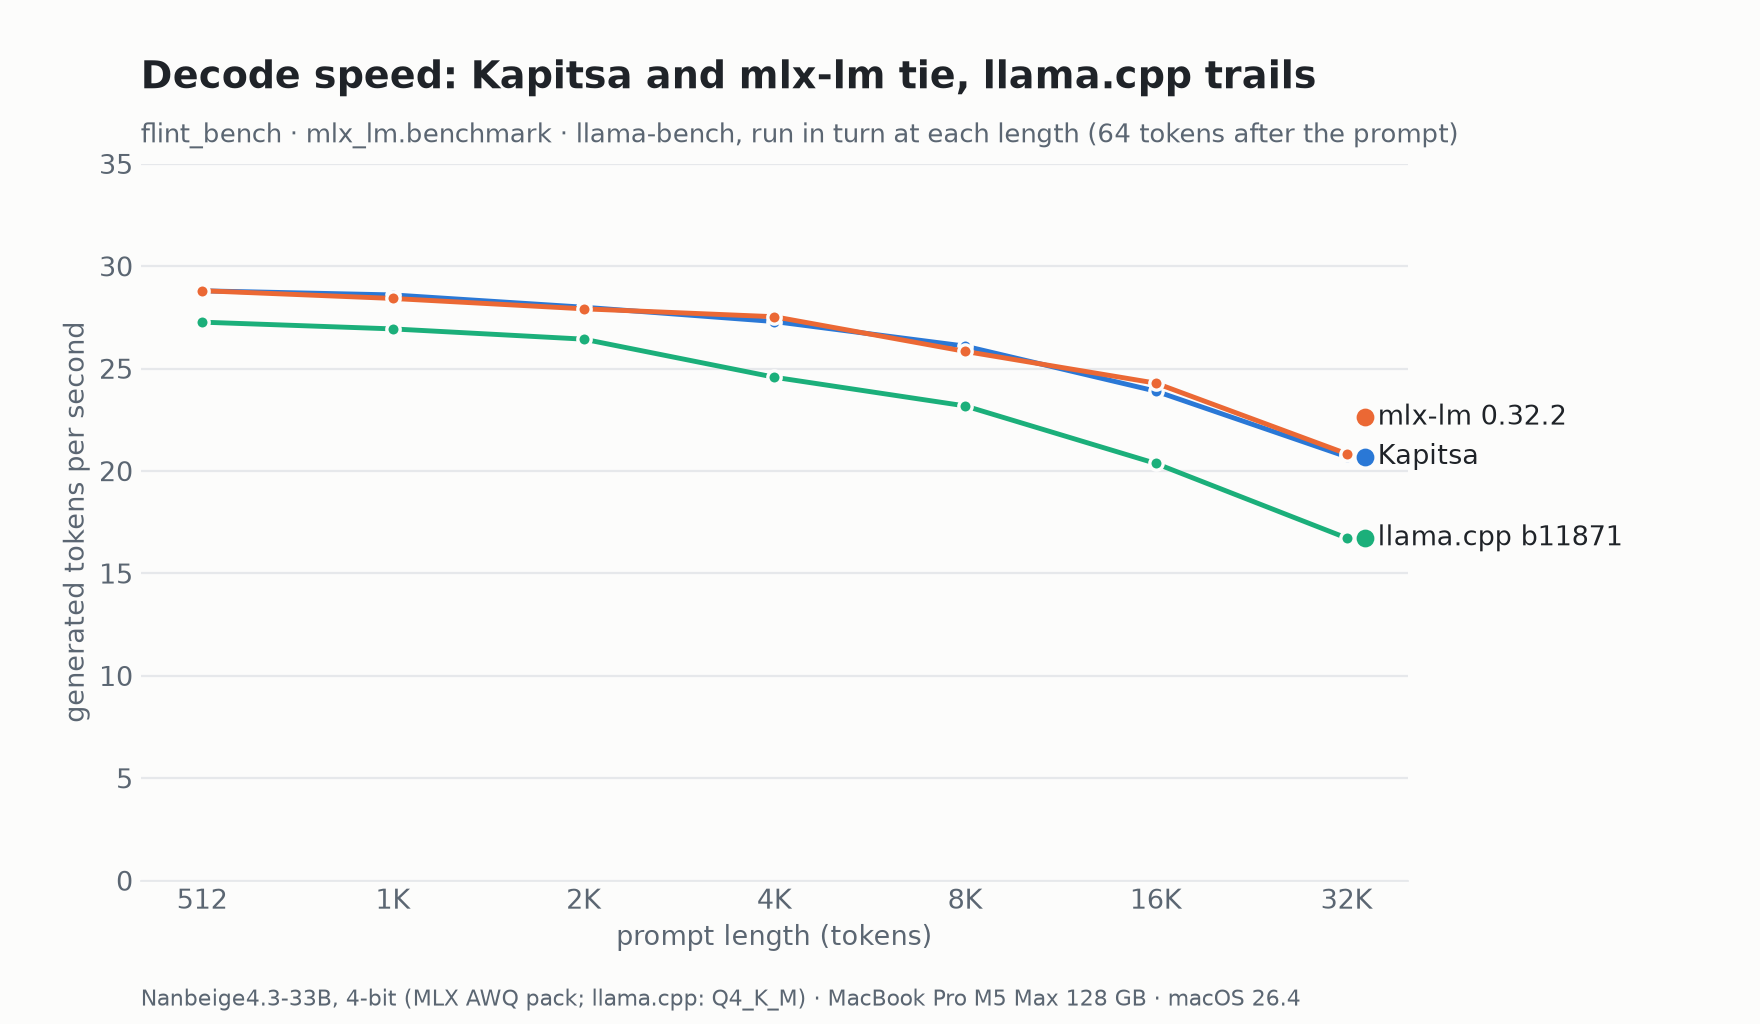
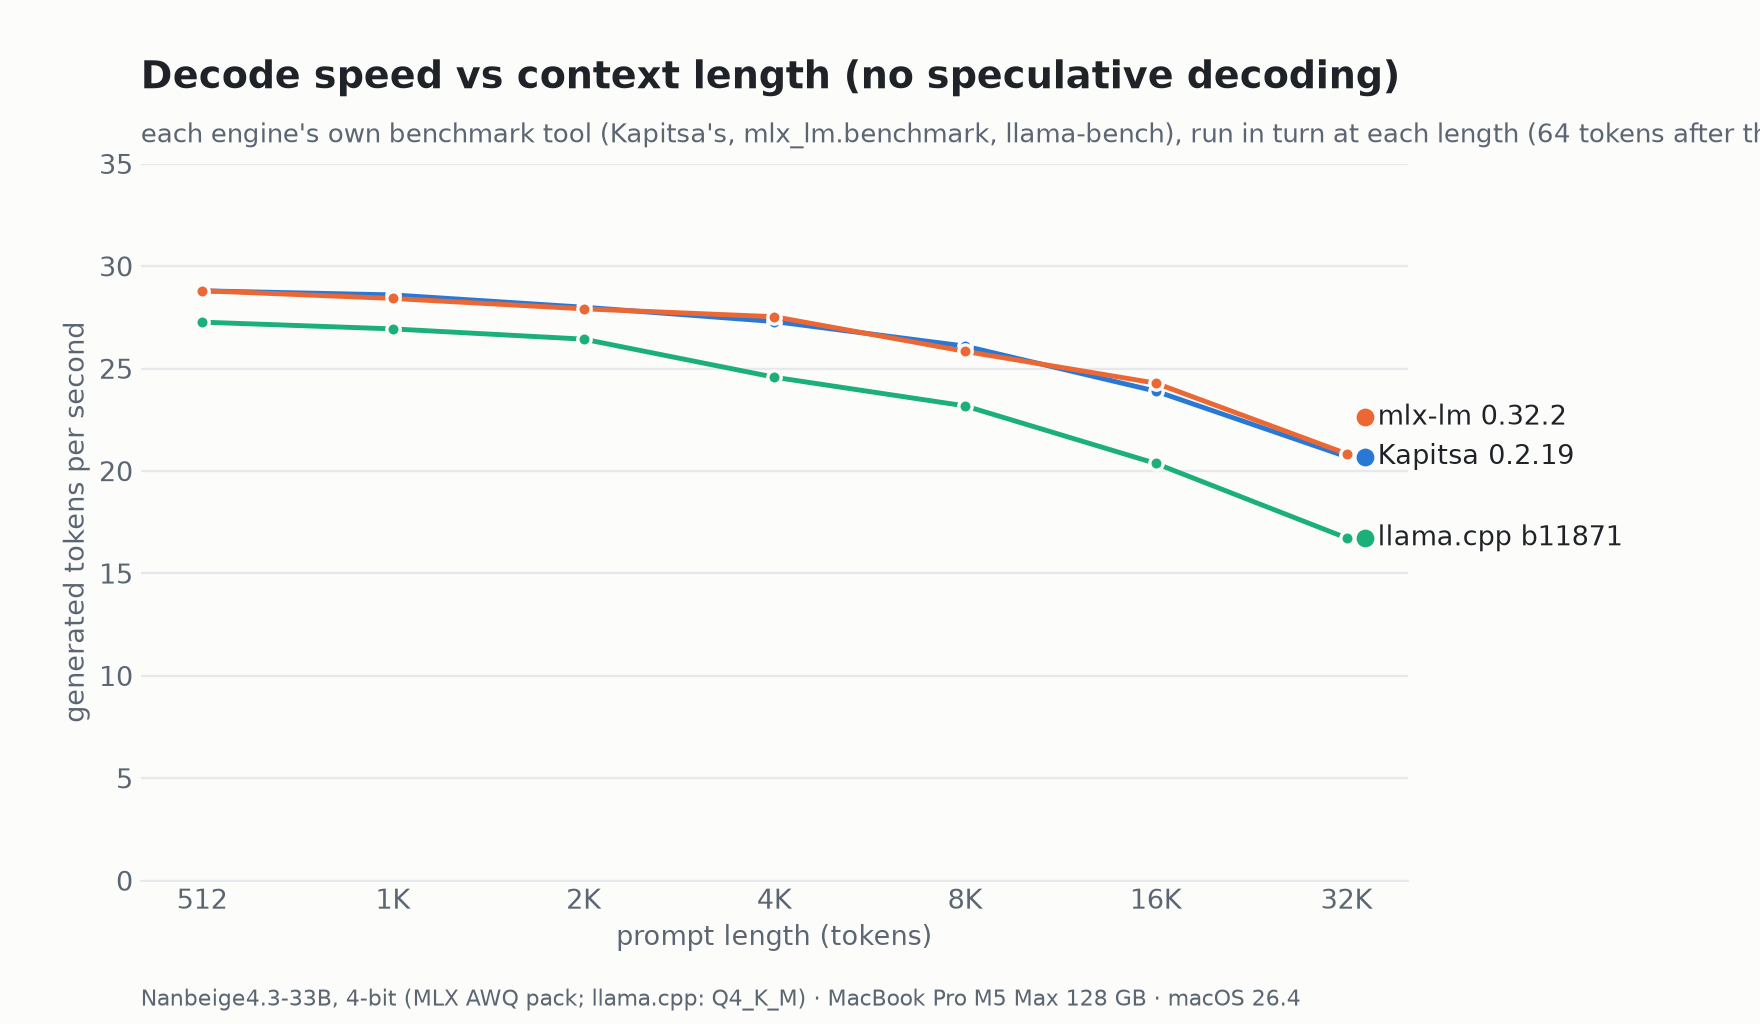
bench: Nanbeige4.3-33B's 2026-10-26 results gain the drafter's write / edit / explain runs (kflash-write/), the peak memory chart, and the chart scripts (#694)

Changed region(s): [[0.0625, 0.125, 1.0, 0.1562], [0.25, 0.0625, 0.8125, 0.0938], [0.8438, 0.4375, 0.9062, 0.4688]]

diff --git a/bench/results/2026-10-26-m5-max-nanbeige/charts.py b/bench/results/2026-10-26-m5-max-nanbeige/charts.py
@@ -1,0 +1,136 @@
+# Reddit charts: Nanbeige4.3-33B prefill and decode speed from 512 to 32K tokens (flint_bench / mlx_lm.benchmark /
+# llama-bench sweep), plus time to first token cold and on a follow-up turn (the harness at 7 sizes) when given.
+# usage: uv run --with matplotlib python charts.py SWEEP_DIR OUT_DIR [HARNESS_RESULTS_DIR]
+import glob, json, os, re, sys
+import matplotlib
+matplotlib.use("Agg")
+import matplotlib.pyplot as plt
+from matplotlib import font_manager
+
+sweep, out = sys.argv[1], sys.argv[2]
+harness = sys.argv[3] if len(sys.argv) > 3 else None
+os.makedirs(out, exist_ok=True)
+
+# the reference palette's first three categorical slots (validated: CVD 9.2, normal 27.6; aqua under 3:1 on the
+# surface, so every line is direct-labeled and the post carries the table)
+ENG = [("Kapitsa 0.2.19", "#2a78d6"), ("mlx-lm 0.32.2", "#eb6834"), ("llama.cpp b11871", "#1baf7a")]
+SURFACE, INK, INK2, GRID = "#fcfcfb", "#1f2328", "#5b6672", "#e6e8eb"
+
+def rd(p):
+    try:
+        return open(p).read()
+    except OSError:
+        return ""
+
+lens = sorted({int(re.search(r"-(\d+)\.txt$", f).group(1)) for f in glob.glob(os.path.join(sweep, "kapitsa-*.txt"))})
+def kap(n):
+    m = re.search(r"\((\d+) tok/s, GPU.*?\(([\d.]+) tok/s", rd(f"{sweep}/kapitsa-{n}.txt"))
+    return (float(m.group(1)), float(m.group(2))) if m else (None, None)
+def mlx(n):
+    m = re.search(r"Averages: prompt_tps=([\d.]+), generation_tps=([\d.]+)", rd(f"{sweep}/mlxlm-{n}.txt"))
+    return (float(m.group(1)), float(m.group(2))) if m else (None, None)
+def llc(n):
+    a = re.search(r"pp\d+ \|\s+([\d.]+)", rd(f"{sweep}/llamacpp-pp-{n}.txt"))
+    b = re.search(r"tg\d+ @ d\d+ \|\s+([\d.]+)", rd(f"{sweep}/llamacpp-tg-{n}.txt"))
+    return (float(a.group(1)) if a else None, float(b.group(1)) if b else None)
+data = {e: [f(n) for n in lens] for (e, _), f in zip(ENG, (kap, mlx, llc))}
+
+def lab(n):
+    if n % 1024 == 0:
+        return str(n) if n < 1024 else f"{n // 1024}K"
+    return str(n) if n < 1000 else f"{n / 1000:.1f}K".replace(".0K", "K")
+
+def style(ax, title, sub, ylabel):
+    ax.set_facecolor(SURFACE)
+    for s in ("top", "right", "left"):
+        ax.spines[s].set_visible(False)
+    ax.spines["bottom"].set_color(GRID)
+    ax.tick_params(colors=INK2, labelsize=12, length=0)
+    ax.grid(axis="y", color=GRID, linewidth=1)
+    ax.set_axisbelow(True)
+    ax.set_ylabel(ylabel, color=INK2, fontsize=12)
+    ax.set_xlabel("prompt length (tokens)", color=INK2, fontsize=12)
+    ax.set_title(title, loc="left", color=INK, fontsize=17, fontweight="bold", pad=34)
+    ax.text(0, 1.03, sub, transform=ax.transAxes, color=INK2, fontsize=11.5)
+
+def line_chart(xs, series, title, sub, ylabel, fname, fmt, ymin0=True):
+    fig, ax = plt.subplots(figsize=(11, 6.4), dpi=160)
+    fig.patch.set_facecolor(SURFACE)
+    style(ax, title, sub, ylabel)
+    ends = []
+    for name, color, ys in series:
+        pts = [(x, y) for x, y in zip(xs, ys) if y is not None]
+        if not pts:
+            continue
+        ax.plot([p[0] for p in pts], [p[1] for p in pts], color=color, linewidth=2.2, marker="o", markersize=6,
+                markeredgecolor=SURFACE, markeredgewidth=1.5, zorder=3, solid_capstyle="round")
+        ends.append([pts[-1][1], name, color, pts[-1][0]])
+    ax.set_xscale("log", base=2)
+    ax.set_xticks(xs)
+    ax.set_xticklabels([lab(x) for x in xs])
+    ax.minorticks_off()
+    if ymin0:
+        top = max(y for _, _, ys in series for y in ys if y is not None)
+        import math
+        step = 10 ** math.floor(math.log10(top)) / 2
+        ax.set_ylim(0, math.ceil(top * 1.08 / step) * step)
+    lo, hi = ax.get_ylim()
+    # direct labels at the right end, nudged apart so they never collide; text in ink, a colored dot beside it
+    ends.sort(key=lambda e: e[0])
+    gap = (hi - lo) * 0.055
+    for i in range(1, len(ends)):
+        if ends[i][0] - ends[i - 1][0] < gap:
+            ends[i][0] = ends[i - 1][0] + gap
+    for y, name, color, x in ends:
+        ax.annotate(name, xy=(x, y), xytext=(14, 0), textcoords="offset points", va="center", fontsize=12, color=INK,
+                    annotation_clip=False)
+        ax.plot([x * 1.07], [y], marker="o", markersize=7, color=color, clip_on=False, zorder=4)
+    ax.set_xlim(xs[0] / 1.25, xs[-1] * 1.25)
+    fig.subplots_adjust(left=0.08, right=0.80, top=0.84, bottom=0.14)
+    fig.text(0.08, 0.018, "Nanbeige4.3-33B, 4-bit (MLX AWQ pack; llama.cpp: Q4_K_M) · MacBook Pro M5 Max 128 GB · macOS 26.4",
+             color=INK2, fontsize=10)
+    fig.savefig(os.path.join(out, fname), facecolor=SURFACE)
+    plt.close(fig)
+    print("wrote", fname)
+
+sub = "each engine's own benchmark tool (Kapitsa's, mlx_lm.benchmark, llama-bench), run in turn at each length"
+line_chart(lens, [(e, c, [v[0] for v in data[e]]) for e, c in ENG],
+           "Prefill speed vs context length", sub, "prompt tokens per second",
+           "prefill.png", "{:.0f}")
+line_chart(lens, [(e, c, [v[1] for v in data[e]]) for e, c in ENG],
+           "Decode speed vs context length (no speculative decoding)", sub + " (64 tokens after the prompt)",
+           "generated tokens per second", "decode.png", "{:.1f}")
+
+if harness:
+    recs = {}
+    for f in glob.glob(os.path.join(harness, "*.json")):
+        try:
+            j = json.load(open(f))
+        except Exception:
+            continue
+        if not isinstance(j, dict) or "prefill" not in j:
+            continue
+        eng = {"kapitsa": "Kapitsa 0.2.19", "mlx-lm": "mlx-lm 0.32.2", "llama.cpp": "llama.cpp b11871"}.get(j.get("engine"), j.get("engine"))
+        recs[eng] = j
+    sizes = sorted({r["target"] for j in recs.values() for r in j["prefill"]})
+    def ttft(j, n):
+        p = next((r for r in j["prefill"] if r["target"] == n), {})
+        return p.get("ttft_s"), p.get("turn2_ttft_s"), p.get("prompt_tokens")
+    toks = [next((ttft(recs[e], n)[2] for e in recs if ttft(recs[e], n)[2]), n) for n in sizes]
+    if sizes:
+        line_chart(toks, [(e, c, [ttft(recs[e], n)[0] if e in recs else None for n in sizes]) for e, c in ENG],
+                   "Time to first token, cold prompt", "each engine's own server, real chat prompts, thinking off",
+                   "seconds", "ttft_cold.png", "{:.2f}")
+        line_chart(toks, [(e, c, [ttft(recs[e], n)[1] if e in recs else None for n in sizes]) for e, c in ENG],
+                   "Time to first token on a follow-up turn", "the conversation so far cached, a new user turn added",
+                   "seconds", "ttft_followup.png", "{:.2f}")
+        # the server process's peak physical footprint by the end of each prompt size (the harness runs them in
+        # ascending order after decode, so each point is the high-water mark up to that context)
+        def mem(j, n):
+            v = (j.get("memory") or {}).get(f"prefill_{n}") or {}
+            return v["phys_footprint_peak_mb"] / 1024 if "phys_footprint_peak_mb" in v else None
+        line_chart(toks, [(e, c, [mem(recs[e], n) if e in recs else None for n in sizes]) for e, c in ENG],
+                   "Peak memory as the context grows", "the server process's peak physical footprint, weights included",
+                   "GB", "memory.png", "{:.1f}")
+    json.dump({e: {str(n): ttft(recs[e], n) for n in sizes} for e in recs}, open(os.path.join(out, "harness.json"), "w"))
+json.dump({e: dict(zip(map(str, lens), data[e])) for e in data}, open(os.path.join(out, "sweep.json"), "w"))

diff --git a/bench/results/2026-10-26-m5-max-nanbeige/kflash-write/chart_write.py b/bench/results/2026-10-26-m5-max-nanbeige/kflash-write/chart_write.py
@@ -1,0 +1,46 @@
+# Decode speed writing code: Kapitsa with KFlash, mlx-lm and llama.cpp (no speculation).
+# usage: uv run --with matplotlib python chart_write.py results.jsonl OUT.png
+import json, sys
+from statistics import mean
+import matplotlib
+matplotlib.use("Agg")
+import matplotlib.pyplot as plt
+
+rows = [json.loads(l) for l in open(sys.argv[1]) if l.startswith("{") and json.loads(l)["task"] == "write code"]
+ENG = [("kapitsa-auto", "Kapitsa 0.2.19 (KFlash)", "#2a78d6"),
+       ("mlx-lm", "mlx-lm 0.32.2 (no spec)", "#eb6834"), ("llama.cpp", "llama.cpp b11871 (no spec)", "#1baf7a")]
+TS = [(0.0, "greedy (T 0)"), (0.6, "sampled (T 0.6)")]
+SURFACE, INK, INK2, GRID = "#fcfcfb", "#1f2328", "#5b6672", "#e6e8eb"
+
+def val(e, T):
+    return mean(r["tps"] for r in rows if r["engine"] == e and r["T"] == T)
+
+fig, ax = plt.subplots(figsize=(11, 6.4), dpi=160)
+fig.patch.set_facecolor(SURFACE)
+ax.set_facecolor(SURFACE)
+for s in ("top", "right", "left"):
+    ax.spines[s].set_visible(False)
+ax.spines["bottom"].set_color(GRID)
+ax.tick_params(colors=INK2, labelsize=12, length=0)
+ax.grid(axis="y", color=GRID, linewidth=1)
+ax.set_axisbelow(True)
+W, top = 0.25, max(r["tps"] for r in rows)
+for i, (e, name, color) in enumerate(ENG):
+    for j, (T, _) in enumerate(TS):
+        v, x = val(e, T), j + (i - 1) * W
+        ax.bar(x, v, W * 0.9, color=color, edgecolor=SURFACE, linewidth=1, zorder=3, label=name if j == 0 else None)
+        ax.text(x, v + top * 0.012, f"{v:.1f}", ha="center", va="bottom", fontsize=11, color=INK)
+ax.set_xticks(range(len(TS)))
+ax.set_xticklabels([t for _, t in TS])
+ax.set_ylim(0, top * 1.12)
+ax.set_ylabel("generated tokens per second", color=INK2, fontsize=12)
+fig.suptitle("Writing code with speculative decoding", x=0.08, ha="left", color=INK, fontsize=17,
+             fontweight="bold", y=0.97)
+fig.text(0.08, 0.885, "a 512-token Python function with unit tests, each engine's own server, mean of two runs",
+         color=INK2, fontsize=11.5)
+fig.legend(*ax.get_legend_handles_labels(), loc="lower center", ncol=3, frameon=False, fontsize=11, labelcolor=INK,
+           bbox_to_anchor=(0.5, 0.05))
+fig.text(0.08, 0.015, "Nanbeige4.3-33B, 4-bit (MLX AWQ pack; llama.cpp: Q4_K_M) · MacBook Pro M5 Max 128 GB · macOS 26.4",
+         color=INK2, fontsize=10)
+fig.subplots_adjust(left=0.08, right=0.98, top=0.83, bottom=0.24)
+fig.savefig(sys.argv[2], facecolor=SURFACE)

diff --git a/bench/results/2026-10-26-m5-max-nanbeige/kflash-write/stream.py b/bench/results/2026-10-26-m5-max-nanbeige/kflash-write/stream.py
@@ -1,0 +1,37 @@
+# Decode speed per task on any OpenAI-compatible server, streamed: tokens after the first one / time after the first one.
+# usage: stream.py BASE_URL MODEL REPO LABEL
+import json, sys, time, urllib.request
+base, model, repo, label = sys.argv[1:5]
+src = open(f"{repo}/tools/readme_images/reddit_grid.py").read().splitlines()[:120]
+code = "\n".join(src)
+work = {
+    "write code": "Write a Python function that merges two sorted lists into one sorted list, with a docstring and three "
+                  "unit tests using unittest.",
+    "edit code": "Add a short docstring to every function in this file and return the whole file, unchanged otherwise, "
+                 "in one code block.\n\n```python\n" + code + "\n```",
+    "explain code": "Explain what this code does, function by function.\n\n```python\n" + code + "\n```",
+}
+def run(p, temp):
+    body = {"model": model, "messages": [{"role": "user", "content": p}], "max_tokens": 512, "temperature": temp,
+            "top_p": 0.95, "top_k": 20, "stream": True, "stream_options": {"include_usage": True},
+            "chat_template_kwargs": {"enable_thinking": False}}
+    req = urllib.request.Request(base + "/chat/completions", json.dumps(body).encode(), {"Content-Type": "application/json"})
+    t0 = time.time(); first = last = None; n = None
+    with urllib.request.urlopen(req, timeout=900) as r:
+        for line in r:
+            line = line.decode().strip()
+            if not line.startswith("data:") or line == "data: [DONE]":
+                continue
+            d = json.loads(line[5:])
+            if d.get("usage"):
+                n = d["usage"]["completion_tokens"]
+            for c in d.get("choices") or []:
+                if (c.get("delta") or {}).get("content"):
+                    last = time.time(); first = first or last
+    return n, (n - 1) / (last - first), first - t0
+run("Say hi.", 0.0)  # warm-up
+for name, p in work.items():
+    for temp in (0.0, 0.6):
+        for i in range(2):
+            n, tps, ttft = run(p, temp)
+            print(json.dumps({"engine": label, "task": name, "T": temp, "tokens": n, "tps": round(tps, 2), "ttft": round(ttft, 2)}), flush=True)

diff --git a/bench/results/2026-10-26-m5-max-nanbeige/README.md b/bench/results/2026-10-26-m5-max-nanbeige/README.md
@@ -71,3 +71,39 @@ Against the 2026-10-25 session:
 On the harness's decode prompt the drafter mostly falls back to plain decoding (about 1.1 tokens per cycle).
 
 The README poster's Nanbeige row takes its Kapitsa and llama.cpp cells from this run.
+
+## Peak memory by context
+
+`memory.png` plots each engine's server footprint peak (`phys_footprint_peak_mb`) at the end of each prompt size's phase, from the
+records in `harness/`. The harness runs the sizes in ascending order after decode, so each point is the peak up to that context.
+
+| Context reached | mlx-lm | llama.cpp | Kapitsa |
+| ---: | ---: | ---: | ---: |
+| 532 | 21.9 GB | 28.0 GB | 22.6 GB |
+| 4.1K | 24.9 GB | 29.1 GB | 22.8 GB |
+| 16.1K | 36.7 GB | 32.0 GB | 25.4 GB |
+| 29.5K | 52.1 GB | 35.5 GB | 28.1 GB |
+
+## Writing code with speculative decoding: `kflash-write/`
+
+`kflash-write/stream.py` sends three coding requests (write, edit and explain code), each with a 512-token answer, to an
+OpenAI-compatible server. Each request runs twice at T 0 and twice at T 0.6. The decode rate is measured from the first
+streamed token to the last.
+
+The servers were:
+
+- Kapitsa with its drafter (`kapitsa-auto`, the default) and without it (`NI_DFLASH=none`), on main 4c16060 (before #689).
+- mlx-lm 0.32.2 and llama.cpp b11871, with no speculative decoding.
+
+The records are in `results.jsonl`, and `chart_write.py` draws `spec_write.png` from its write-code rows.
+
+| Task (T 0 / T 0.6), tok/s | Kapitsa + drafter | Kapitsa, no drafter | mlx-lm | llama.cpp |
+| --- | ---: | ---: | ---: | ---: |
+| write code | 36.6 / 32.3 | 27.8 / 27.6 | 27.1 / 26.7 | 24.9 / 24.8 |
+| edit code | 25.1 / 25.3 | 27.2 / 27.0 | 26.2 / 25.8 | 24.0 / 23.8 |
+| explain code | 27.1 / 26.0 | 27.1 / 26.9 | 26.2 / 25.9 | 23.8 / 23.8 |
+
+The drafter pays on writing code. On the edit request it cost about 7% against plain decoding. At long context it
+drafted where drafting loses, until #689 (32K keys: 11.0 to 18.9 tok/s, against 20.0 without the drafter).
+
+`charts.py` draws the other five charts: `charts.py context-sweep OUT harness`.
